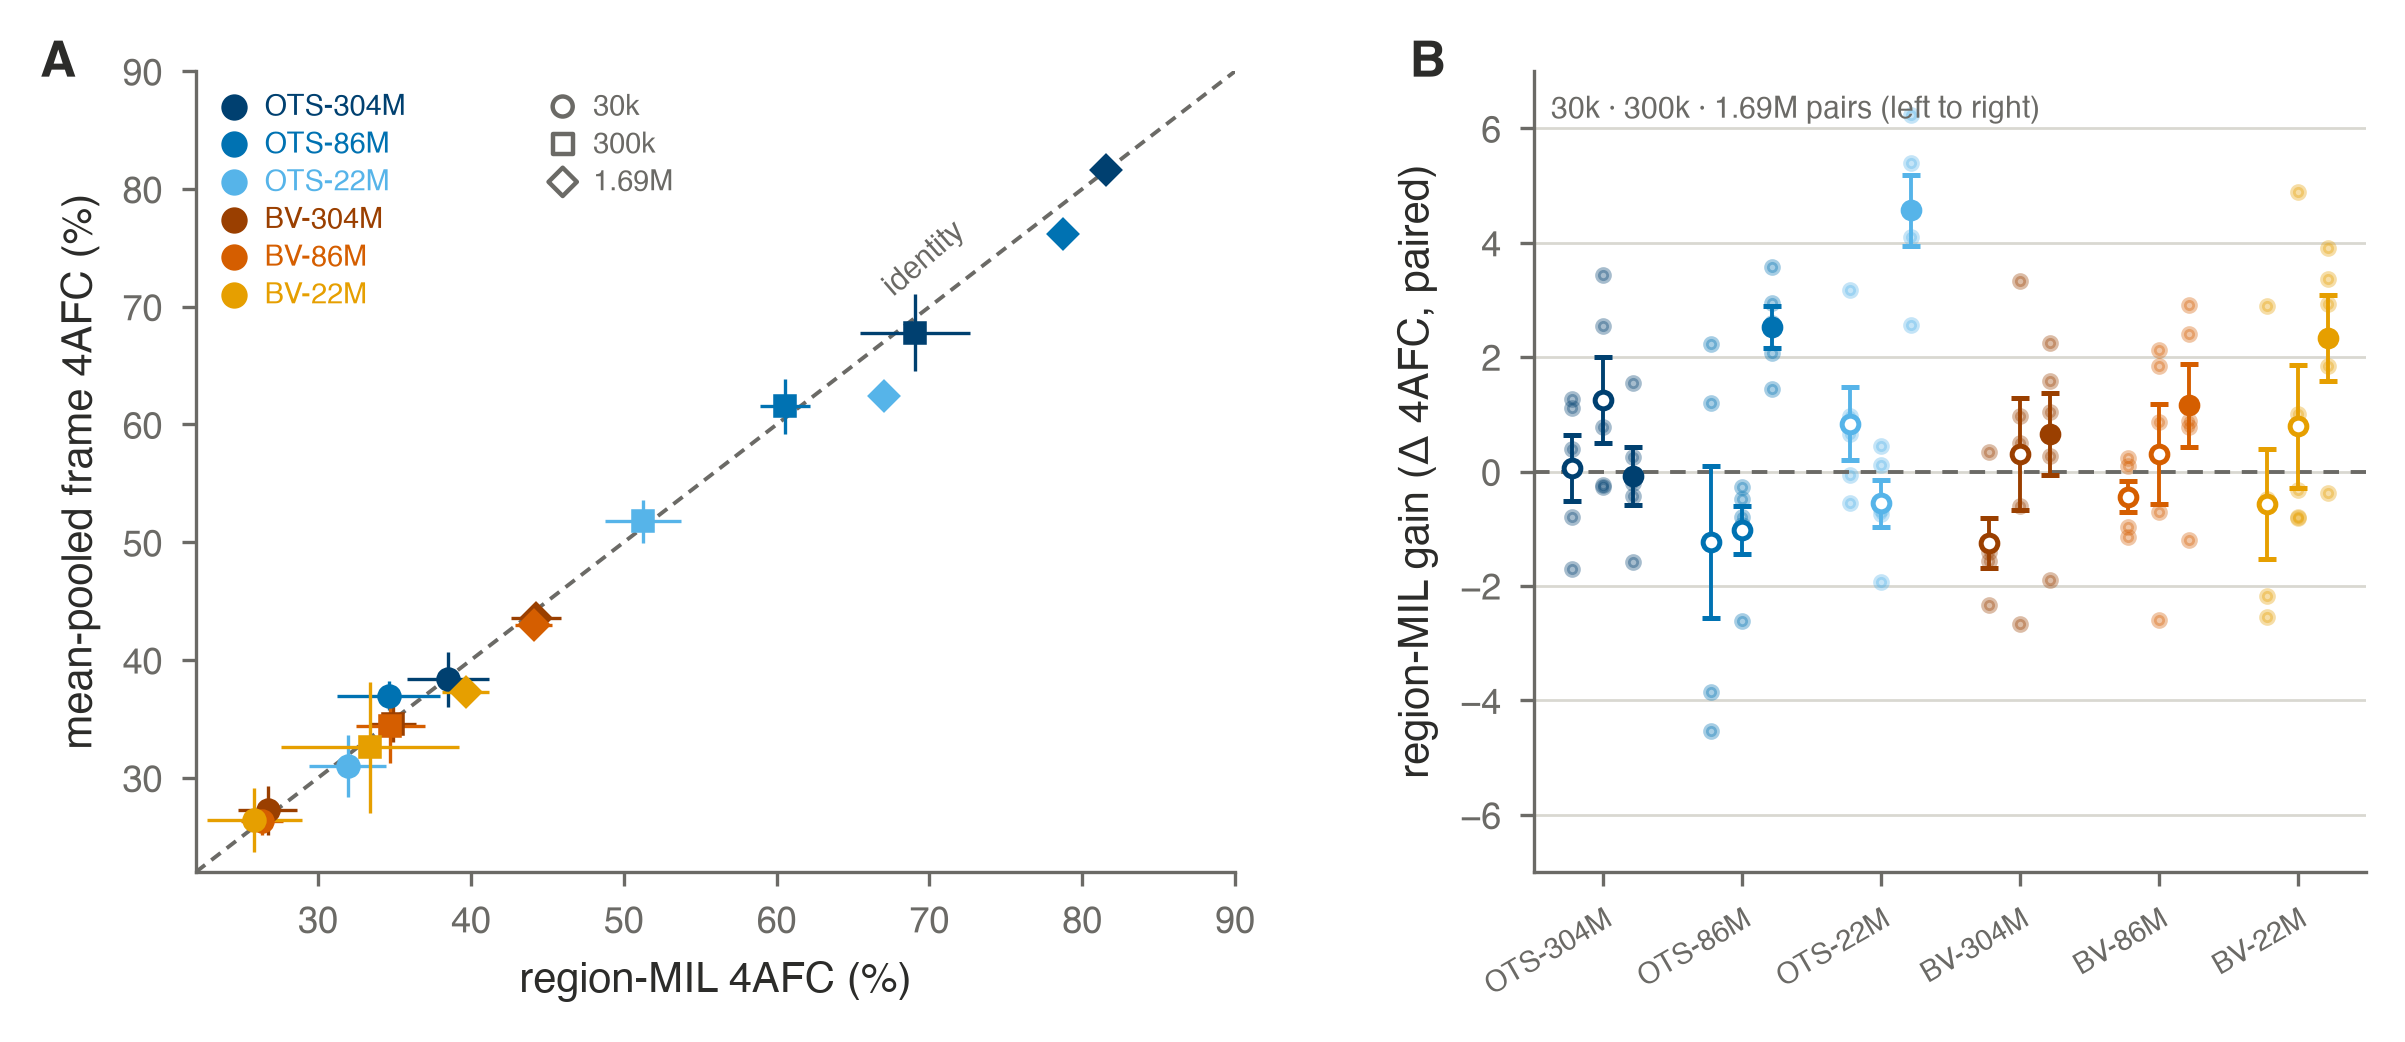
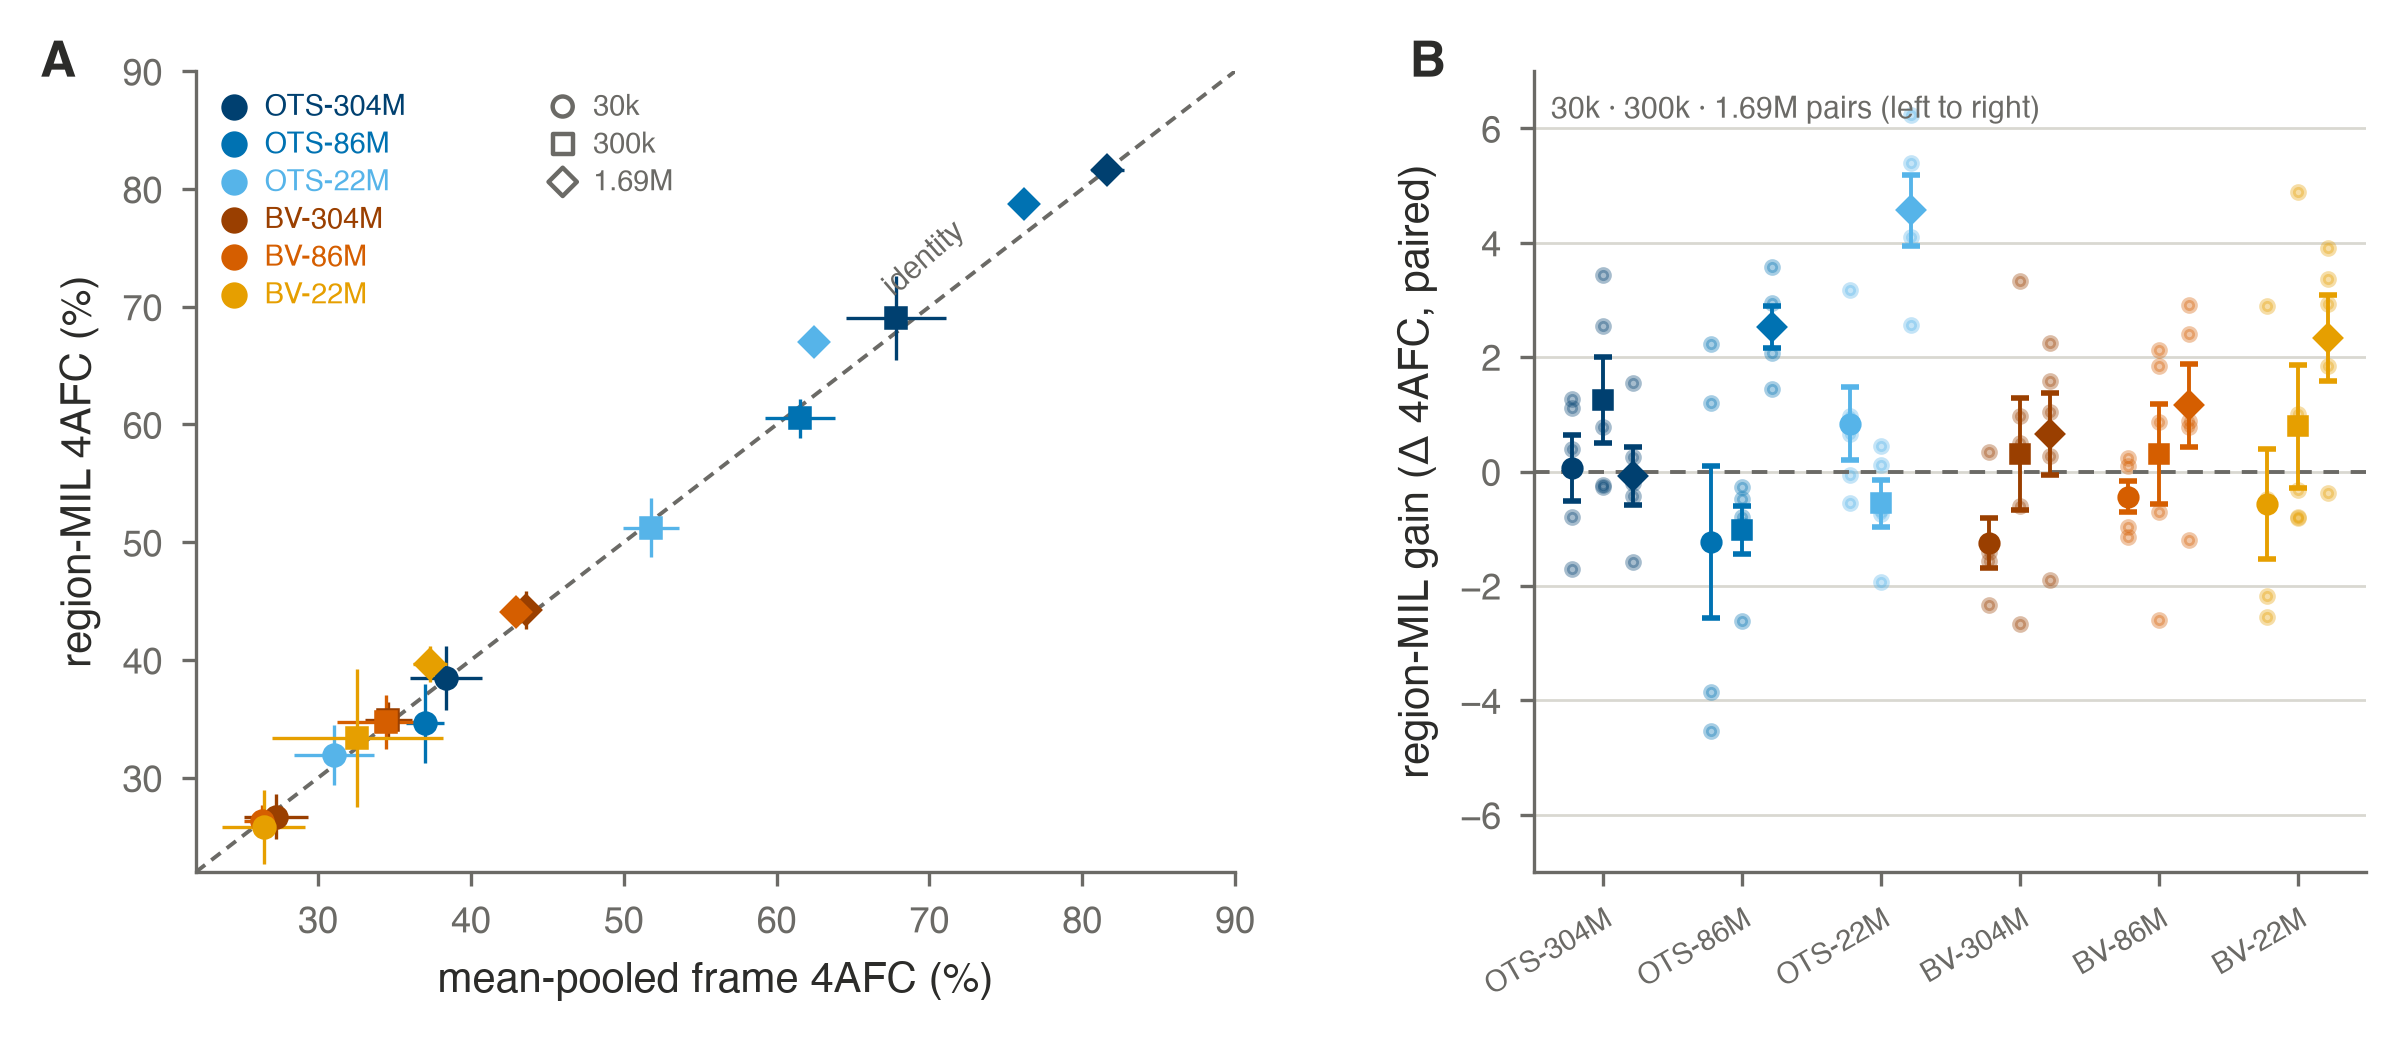
figS_nomil: mean-pooled on x so above-identity = MIL gain; figS_nomil + figS_window: panel B uses the same scale markers as panel A's key

diff --git a/figures/figS_nomil.py b/figures/figS_nomil.py
@@ -4,7 +4,7 @@ The no-MIL arm replaces the 4x4 region grid with its mean (R=1 caches, train and
 holding everything else fixed and pairing seed-for-seed against the region-MIL runs on the
 same manifests, at three scales and for all six encoders.
 
-A: the two arms against each other. Every cell sits on the identity line.
+A: the two arms against each other (mean-pooled on x, so above the line = MIL gain).
 B: the paired difference, seed-matched. Every cell sits within seed noise of zero, so a
    single mean-pooled frame vector learns as well as region-MIL everywhere we tested.
 """
@@ -24,7 +24,7 @@ MK = {"30k": "o", "300k": "s", "1.69M": "D"}
 for enc, key, col in ENC:
     for _, mil_f, wf_f, slab in SCALES:
         mil = D.family(f"F_{enc}_{mil_f}"); wf = D.family(f"F_{enc}_{wf_f}")
-        ax.errorbar([mil["mean"]], [wf["mean"]], xerr=[mil["sd"]], yerr=[wf["sd"]],
+        ax.errorbar([wf["mean"]], [mil["mean"]], xerr=[wf["sd"]], yerr=[mil["sd"]],
                     fmt=MK[slab], color=col, ms=3.4, elinewidth=0.6, capsize=0, zorder=3)
 lim = [22, 90]
 ax.plot(lim, lim, color=T.SUB, lw=0.7, ls=(0, (3, 2)), zorder=1)
@@ -38,7 +38,7 @@ for j, slab in enumerate(["30k", "300k", "1.69M"]):
                marker=MK[slab], zorder=4)
     ax.text(48, 87 - j * 3.2, slab, fontsize=5.2, color=T.SUB, va="center")
 ax.set_xlim(lim); ax.set_ylim(lim)
-ax.set_xlabel("region-MIL 4AFC (%)"); ax.set_ylabel("mean-pooled frame 4AFC (%)")
+ax.set_xlabel("mean-pooled frame 4AFC (%)"); ax.set_ylabel("region-MIL 4AFC (%)")
 T.clean(ax, grid_axis=None)
 
 # ---- B: paired per-seed differences ---------------------------------------------
@@ -49,9 +49,8 @@ for i, (enc, key, col) in enumerate(ENC):
         common = sorted(set(a.index) & set(b.index))
         d = np.array([a[s] - b[s] for s in common])
         x = i + (j - 1) * 0.22
-        bx.errorbar([x], [d.mean()], yerr=[d.std(ddof=1) / np.sqrt(len(d))], fmt="o",
-                    color=col, ms=3.0, elinewidth=0.7, capsize=1.6, zorder=3,
-                    markerfacecolor=col if j == 2 else "white", markeredgewidth=0.9)
+        bx.errorbar([x], [d.mean()], yerr=[d.std(ddof=1) / np.sqrt(len(d))], fmt=MK[slab],
+                    color=col, ms=3.0, elinewidth=0.7, capsize=1.6, zorder=3)
         bx.scatter([x] * len(d), d, s=4, color=col, alpha=0.35, zorder=2)
         print(f"  NOTE figS_nomil {key} {slab}: MIL {a.mean():.1f} vs no-MIL {b.mean():.1f}, "
               f"paired Δ {d.mean():+.2f} ± {d.std(ddof=1):.2f} (n={len(d)})")

diff --git a/figures/figS_window.py b/figures/figS_window.py
@@ -60,8 +60,7 @@ for i, (enc, key, col) in enumerate(ENC):
             continue
         d = np.array([b[s] - a[s] for s in common])
         bx.errorbar([x], [d.mean()], yerr=[d.std(ddof=1) / np.sqrt(len(d))], fmt=MK[slab],
-                    color=col, ms=2.8, elinewidth=0.7, capsize=1.6, zorder=3,
-                    markerfacecolor=col if j == 3 else "white", markeredgewidth=0.9)
+                    color=col, ms=2.8, elinewidth=0.7, capsize=1.6, zorder=3)
         bx.scatter([x] * len(d), d, s=4, color=col, alpha=0.35, zorder=2)
         print(f"  NOTE figS_window {key} {slab}: midpoint {a.mean():.1f} vs window "
               f"{b.mean():.1f}, paired Δ {d.mean():+.2f} ± {d.std(ddof=1):.2f} (n={len(d)})")
